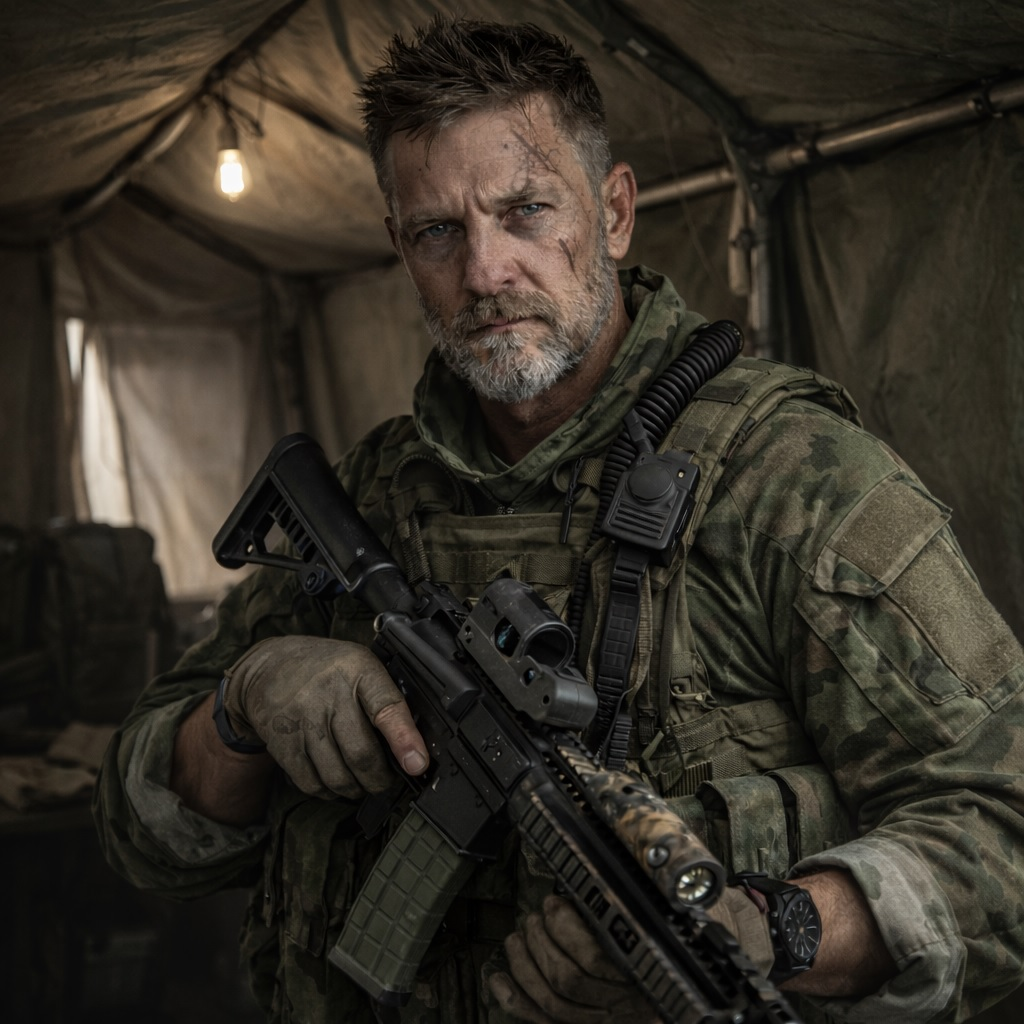
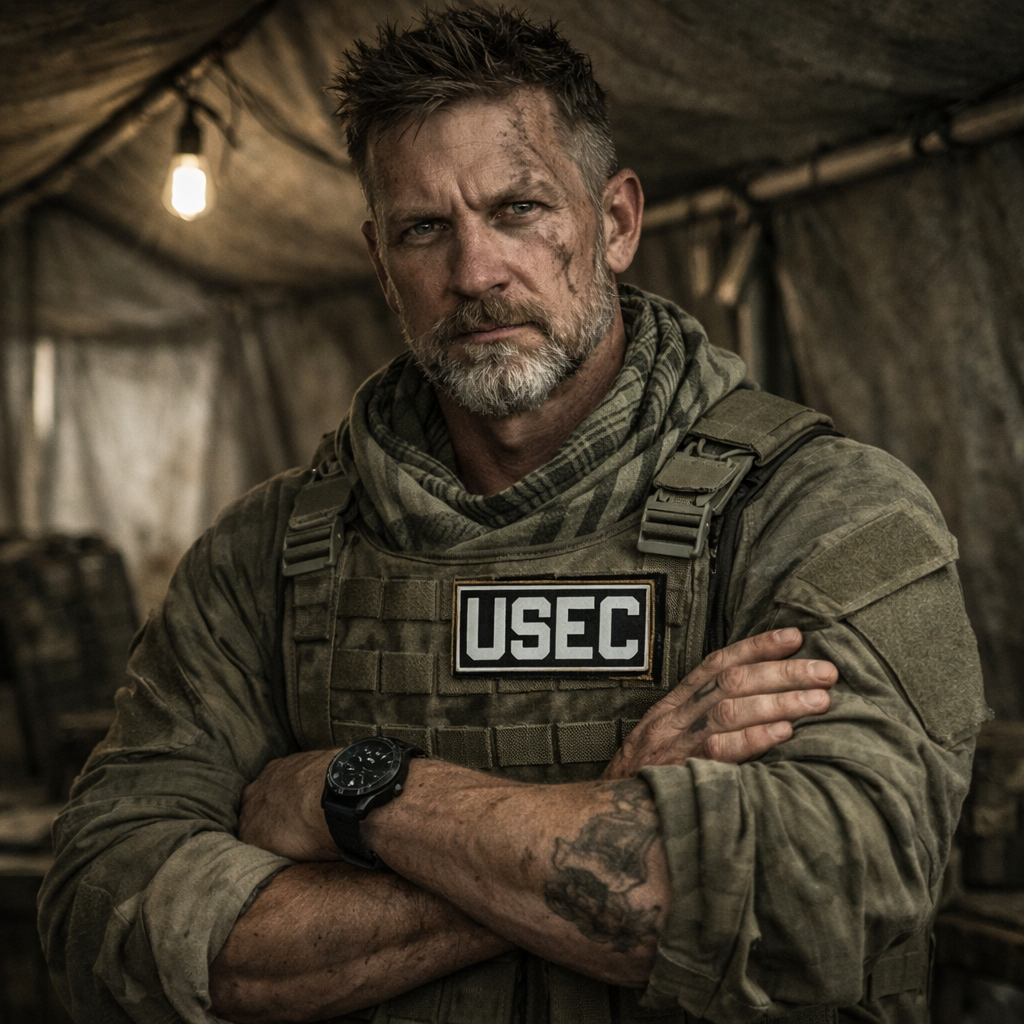
Some new Trader Pics and more items

diff --git a/Plugin.cs b/Plugin.cs
@@ -64,7 +64,7 @@ public class rtt2trader(
         var traderImagePath_xm = Path.Combine(pathToMod, "data/xiaoming.jpg");
         var traderImagePath_ch = Path.Combine(pathToMod, "data/chimera.jpg");
         var traderImagePath_st = Path.Combine(pathToMod, "data/storyteller.jpg");
-        var traderImagePath_vr = Path.Combine(pathToMod, "data/vrun.jpg");
+        var traderImagePath_vr = Path.Combine(pathToMod, "data/voron.jpg");
         var traderImagePath_nd = Path.Combine(pathToMod, "data/needle.jpg");
         var traderImagePath_pr = Path.Combine(pathToMod, "data/price.jpg");
         var traderImagePath_at = Path.Combine(pathToMod, "data/atlas.jpg");
@@ -124,7 +124,7 @@ public class rtt2trader(
         addCustomTraderHelper.AddTraderToLocales(traderBase_xm, "Xiaoming", "Chinese bureaucrat representing the CCP in Tarkov. He's more clever than you think, but less clever than he thinks.");
         addCustomTraderHelper.AddTraderToLocales(traderBase_ch, "Chimera", "An old friend. He was dead, previously... but now he's not...?");
         addCustomTraderHelper.AddTraderToLocales(traderBase_st, "Storyteller", "The voice in your head.");
-        addCustomTraderHelper.AddTraderToLocales(traderBase_vr, "Vran", "All will be revealed according to his plan, according to him.");
+        addCustomTraderHelper.AddTraderToLocales(traderBase_vr, "Voron", "All will be revealed according to Its plan, according to It.");
         addCustomTraderHelper.AddTraderToLocales(traderBase_nd, "Needle", "He's got the stuff, if you've got the cash...");
         addCustomTraderHelper.AddTraderToLocales(traderBase_pr, "Price", "He sells cigarettes and cigarette accessories.");
         addCustomTraderHelper.AddTraderToLocales(traderBase_at, "Atlas", "Your friendly, neighborhood, out-of-touch gun enthusiast.");
